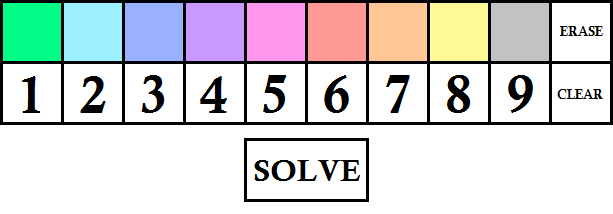
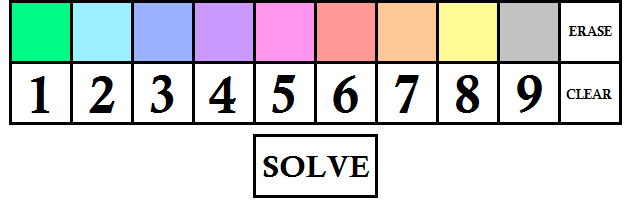
no message

diff --git a/SudokuSolver/src/SudokuSolver.java b/SudokuSolver/src/SudokuSolver.java
@@ -79,9 +79,8 @@ public class SudokuSolver {
 		b.changeBoxRegion(5, 7, 9);
 		b.changeBoxRegion(5, 8, 9);
 
-		//main.setPreferredSize(new Dimension(613, 710));
-		b.setPreferredSize(new Dimension(640, 640));
-		c.setPreferredSize(new Dimension(613, 214));
+		b.setPreferredSize(new Dimension(630, 630));
+		c.setPreferredSize(new Dimension(630, 214));
 		
 		main.add(b);
 		main.add(c, BorderLayout.SOUTH);
@@ -91,13 +90,6 @@ public class SudokuSolver {
 		main.setResizable(false);
 		main.setVisible(true);
 		
-<<<<<<< HEAD
-	}
-	
-	public static void init()
-	{
-		
-=======
 		UserGame game = new UserGame(b);
 		try {
 			Board userBoard = game.play();
@@ -105,6 +97,6 @@ public class SudokuSolver {
 			// TODO Auto-generated catch block
 			e.printStackTrace();
 		}
->>>>>>> 55bf4a515851eafd684859c87d0de560870db3e2
 	}
+
 }

diff --git a/SudokuSolver/src/InputBox.java b/SudokuSolver/src/InputBox.java
@@ -25,7 +25,7 @@ public class InputBox extends JComponent
 			{
 				Image box = null;
 				box = Toolkit.getDefaultToolkit().getImage(getClass().getResource("/images/Buttons.png"));
-				BufferedImage boxBuffered = new BufferedImage(613, 214, BufferedImage.TYPE_INT_ARGB);
+				BufferedImage boxBuffered = new BufferedImage(630, 214, BufferedImage.TYPE_INT_ARGB);
 				boxBuffered.getGraphics().drawImage(box, 0, 0, null);
 				g2.drawImage(boxBuffered, 0, 0, (int)getSize().getWidth(), (int)getSize().getHeight(), this);
 			}	

diff --git a/SudokuSolver/src/InputMouseListener.java b/SudokuSolver/src/InputMouseListener.java
@@ -15,6 +15,8 @@ public class InputMouseListener implements MouseListener
     public void mousePressed(MouseEvent e)
     {
         System.out.println("You clicked the input area!");
+        System.out.println(e.getX() + "," + e.getY());
+        System.out.println(e.getX());
     }
     public void mouseReleased(MouseEvent e)
     {
